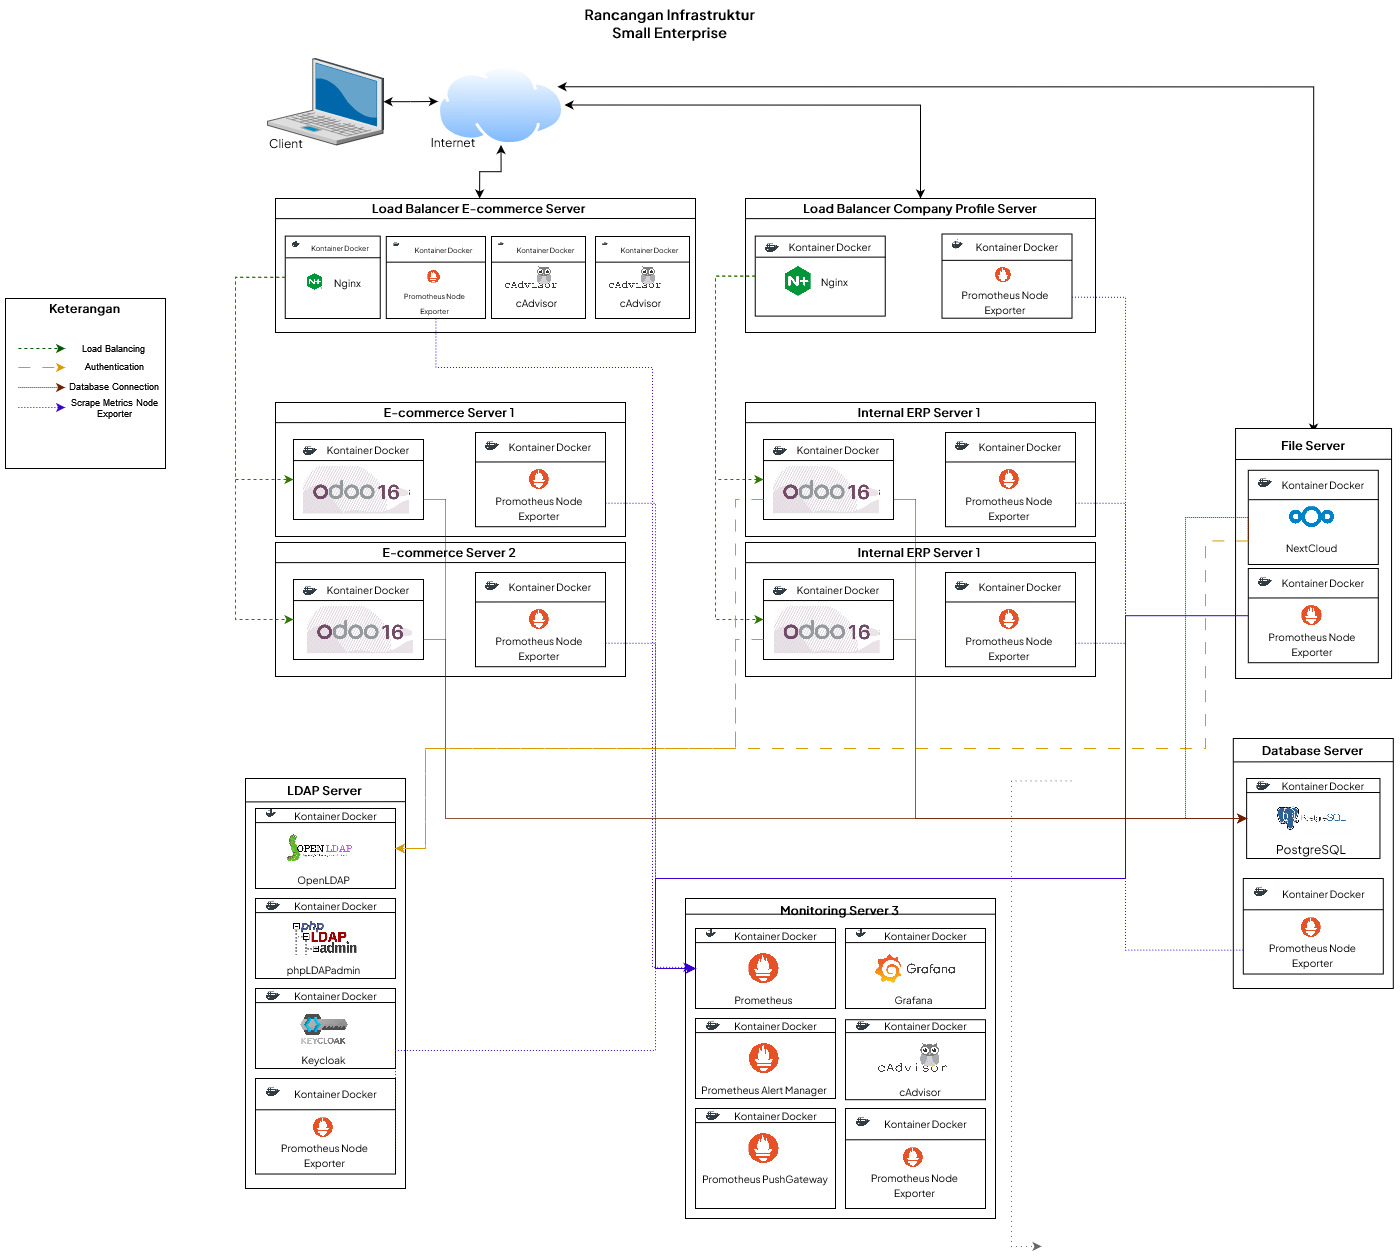
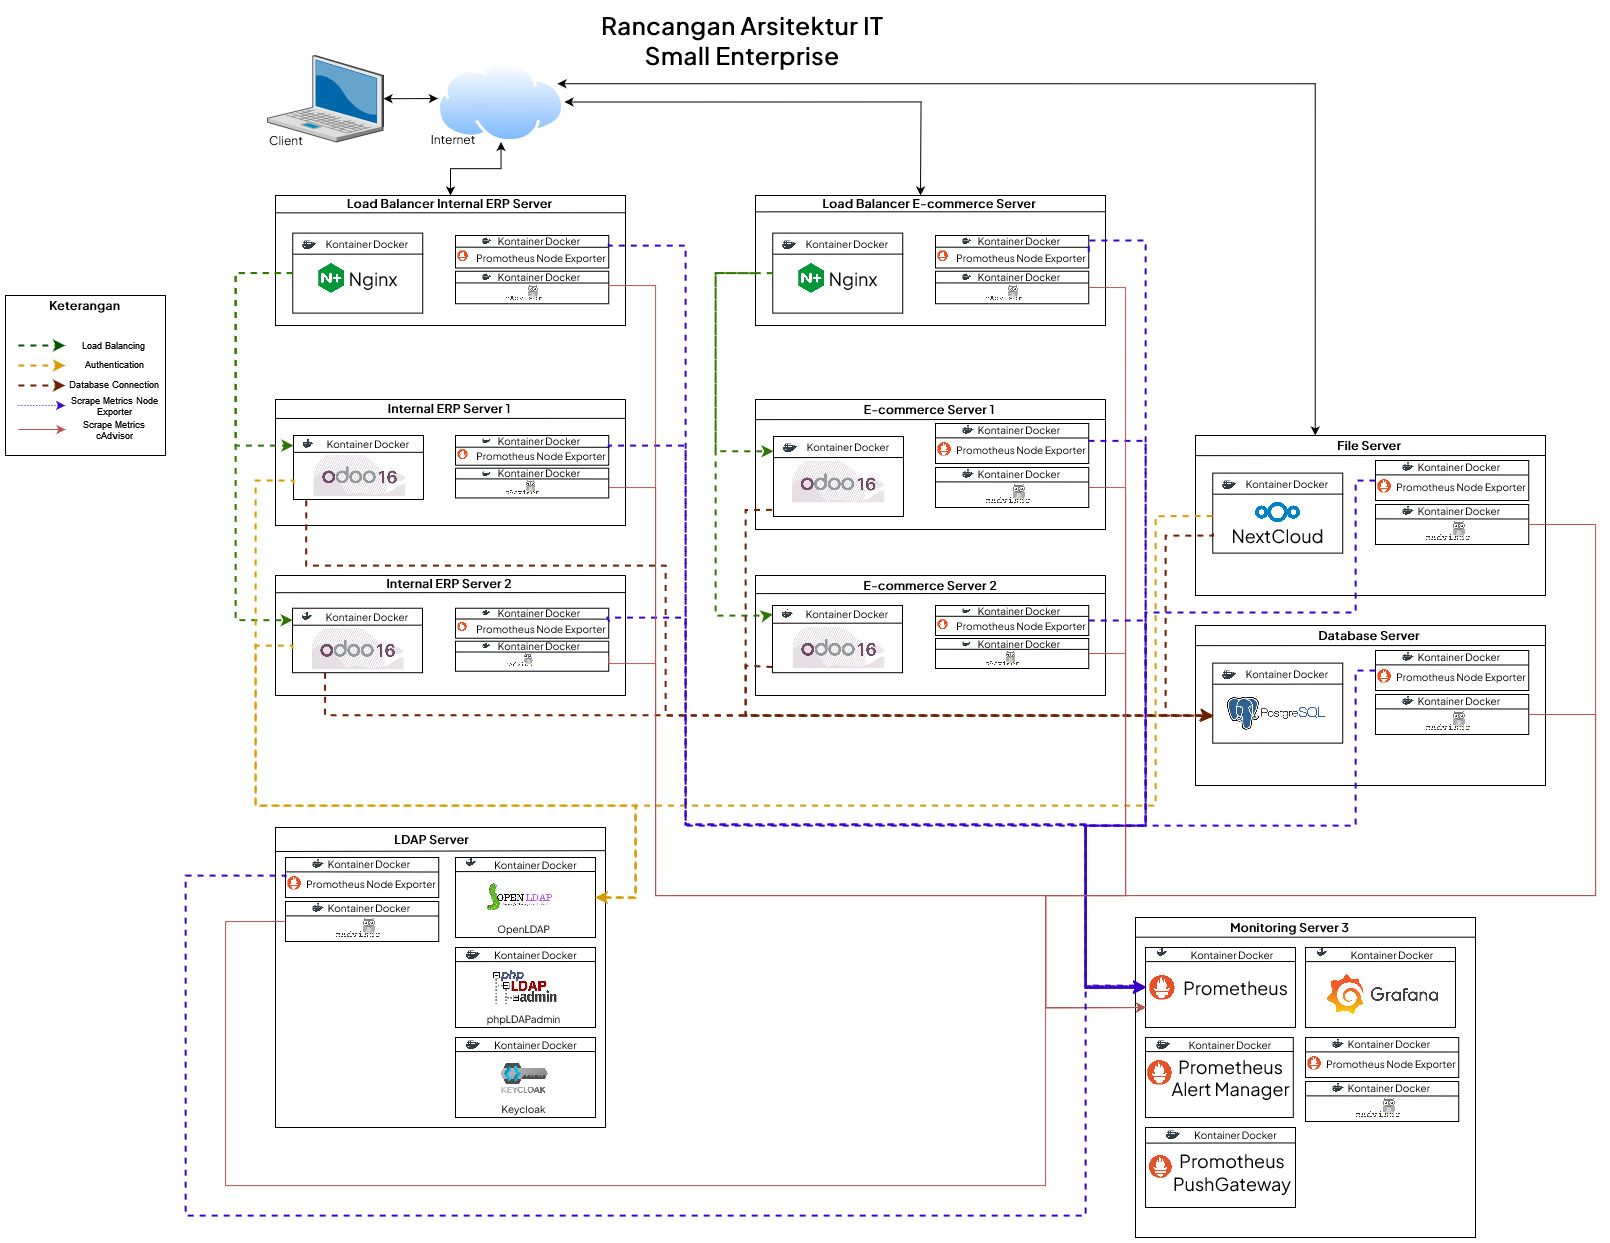
file: updating README.md

diff --git a/README.md b/README.md
@@ -1,6 +1,38 @@
 # Enterprise IT Architecture
-adapting 'Manajemen Infrastruktur' Final Project
+adapting 'Manajemen Infrastruktur' Final Project, this is the architecture I plan to implement. Containerized microservices.
+![IT architecture](./images/enterprise-infra.jpg)
+
+- [Architecture](#architecture)
+    - [Database Server](#database-server)
+    - [E-commerce Server 1 & 2](#e-commerce-server-1--2)
+    - [Load Balancer E-commerce Server](#load-balancer-e-commerce-server)
+    - [Internal ERP Server 1 & 2](#internal-erp-server-1--2)
+    - [Load Balancer Internal ERP Server](#load-balancer-internal-erp-server)
+    - [File Server](#file-server)
+    - [LDAP Server](#ldap-server)
+    - [Monitoring Server](#monitoring-server)
 
 ## Architecture
-this is the architecture I plan to implement. Containerized microservices.
-![IT architecture](./images/enterprise-infra.jpg)
+### Database Server
+Host dari sistem database terintegrasi PostgreSQL. Sistem database ini terintegrasi untuk semua aplikasi perusahaan yang memiliki dependensi kepada suatu database, seperti Odoo dan NextCloud.
+
+### E-commerce Server 1 & 2
+Host dari aplikasi *e-commerce* milik perusahaan. *E-commerce* dibangun menggunakan Odoo 16 di dalam sebuah kontainer Docker dan bisa diakses oleh publik.
+
+### Load Balancer E-commerce Server
+Host dari *load balancer* kedua server *e-commerce*. Aplikasi *load balancer* memanfaatkan Nginx yang di-*deploy* di dalam kontainer Docker.
+
+### Internal ERP Server 1 & 2
+Host dari aplikasi *internal ERP* milik perusahaan. ERP juga menggunakan Odoo 16 dan terhubung ke sistem database yang sama dengan Odoo untuk *e-commerce*. Aplikasi ERP di-deploy di dalam kontainer Docker dan hanya bisa diakses oleh device yang berada di jaringan perusahaan.
+
+### Load Balancer Internal ERP Server
+Host dari *load balancer* kedua server ERP. *Load balancer* ini juga memanfaatkan Nginx yang di deploy di dalam kontainer Docker.
+
+### File Server
+Host dari aplikasi NextCloud sebagai *file sharing system* perusahaan. Aplikasi di-*deploy* di dalam kontainer Docker dan bisa diakses oleh publik. Autentikasi menggunakan sistem LDAP.
+
+### LDAP Server
+Host dari sistem autentikasi LDAP untuk NextCloud dan Odoo 16 untuk internal ERP.
+
+### Monitoring Server
+Host dari sistem monitoring infrastruktur yang akan dibangun. Digunakan Promotheus-Grafana yang di deploy di kontainer Docker masing-masing. Data monitoring di-*scrapping* oleh Promotheus dari Node Exporter dan cAdvisor yang di-*deploy* di dalam kontainer Docker server-server lainnya dan divisualisasikan oleh Grafana.
